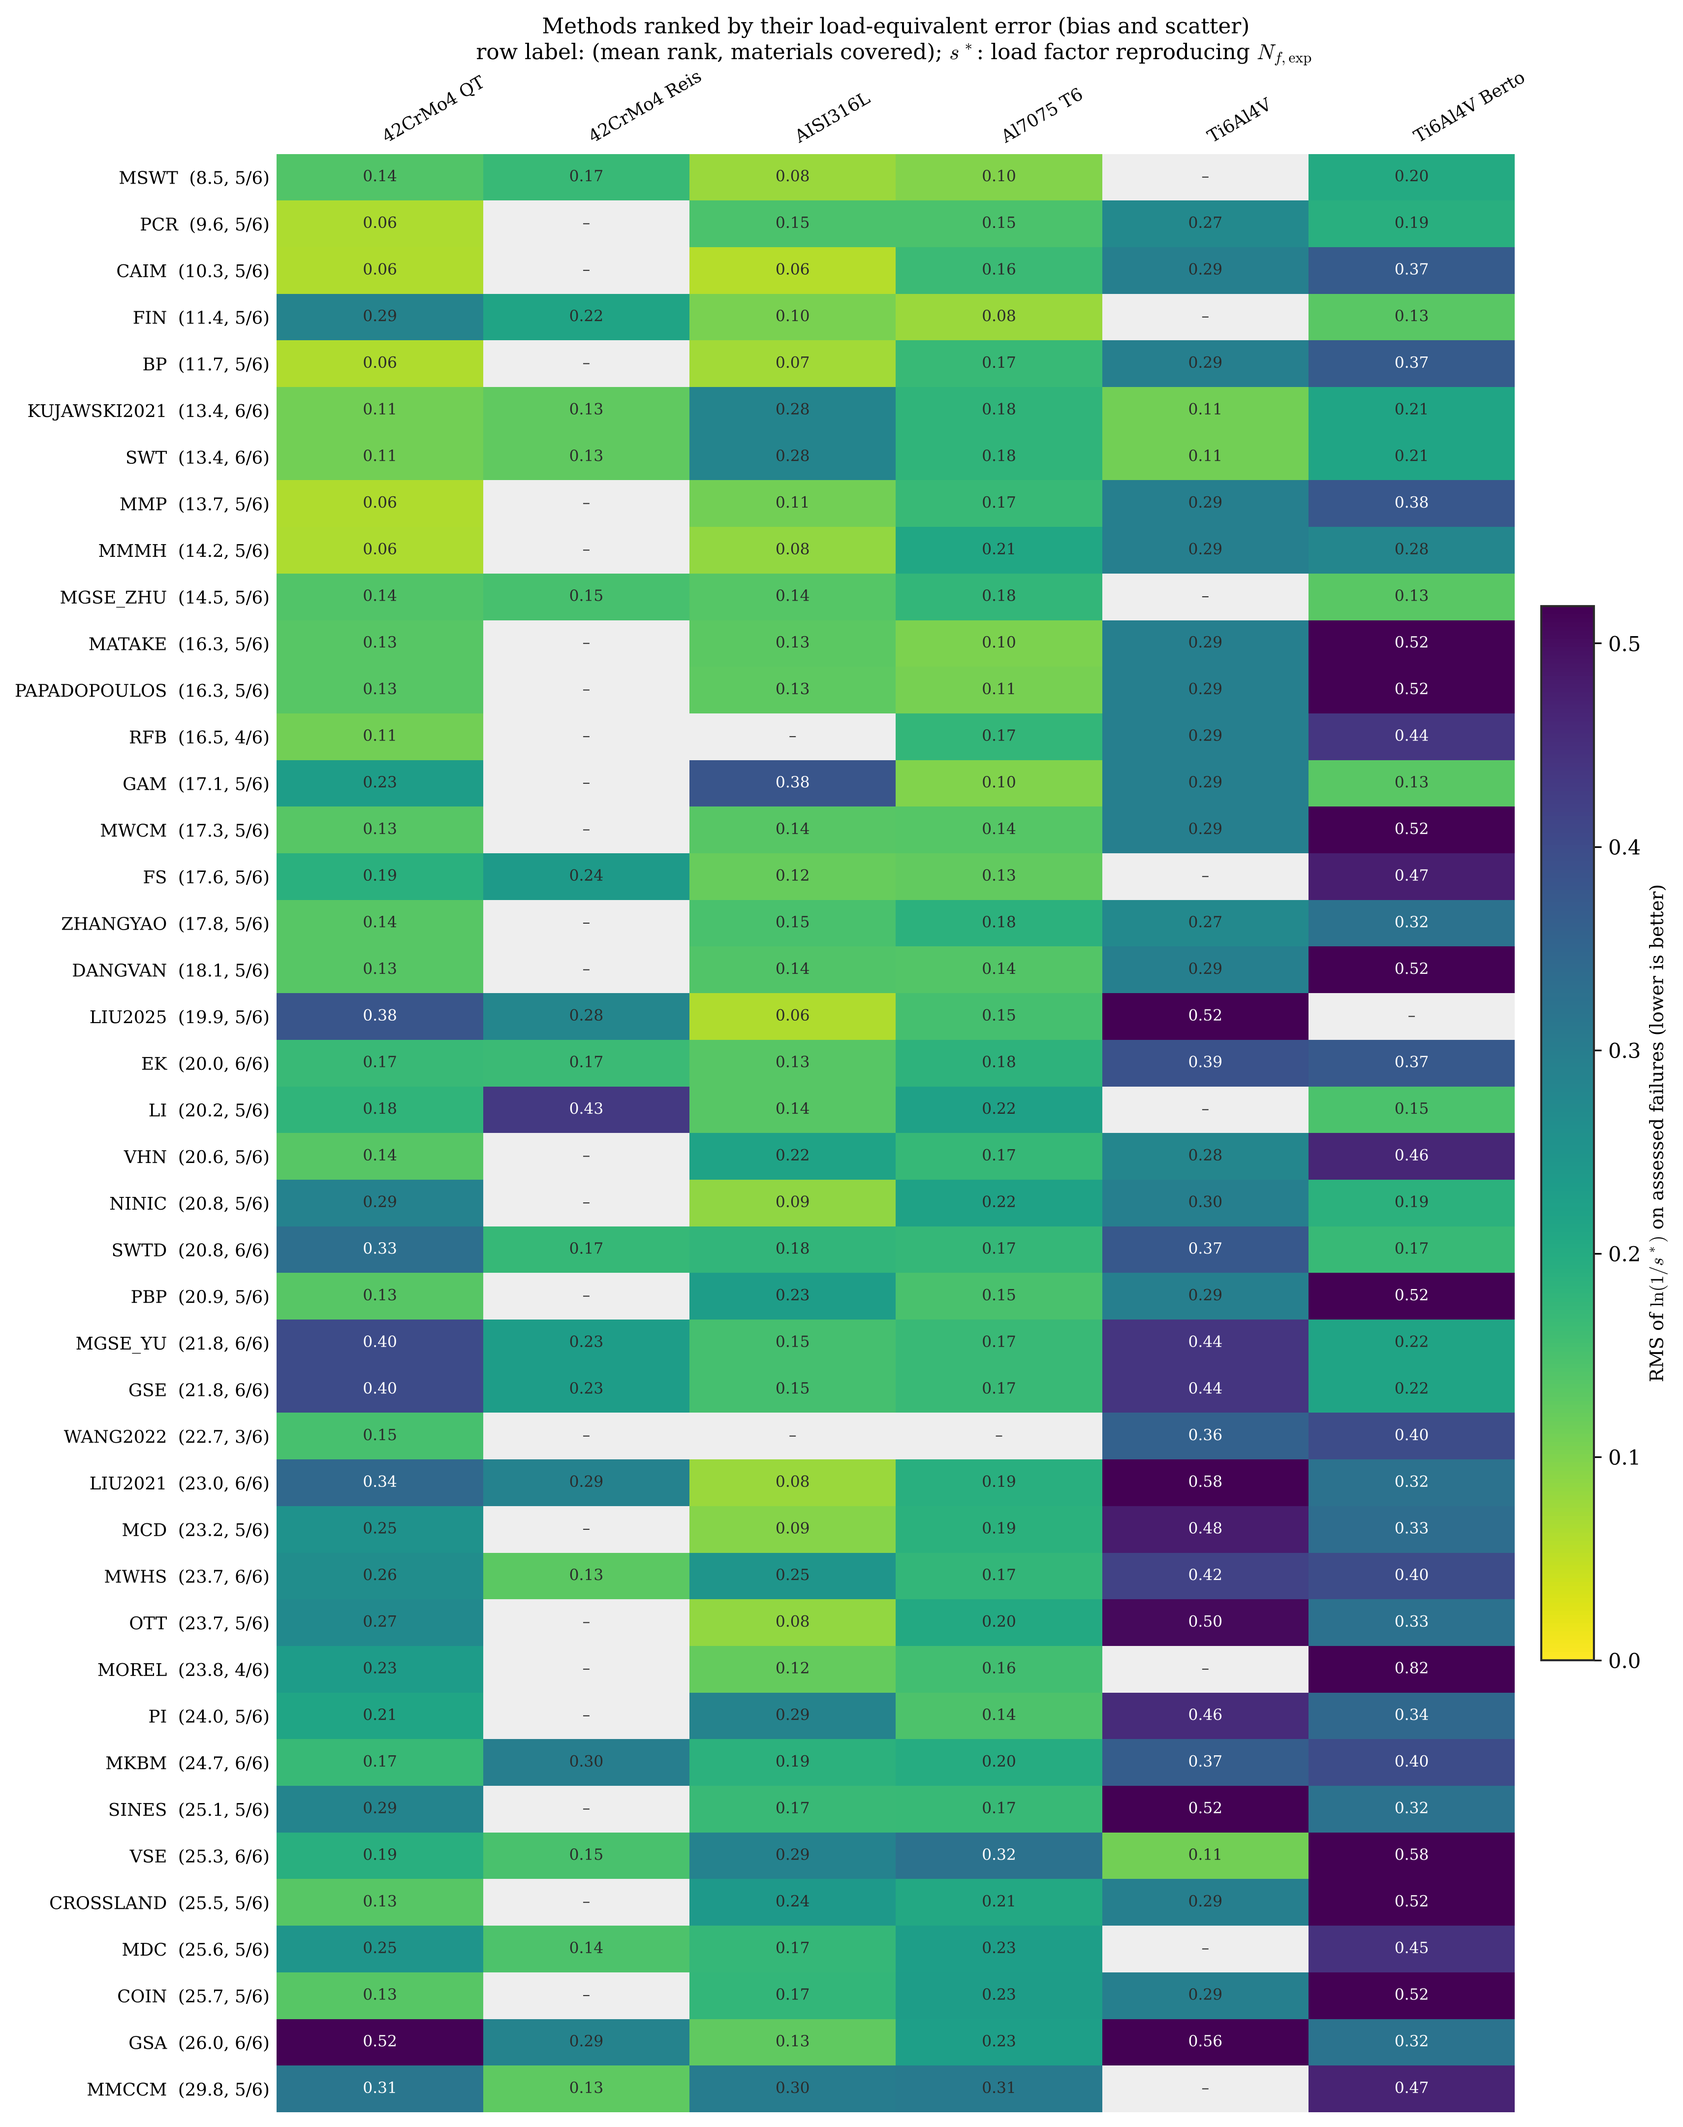
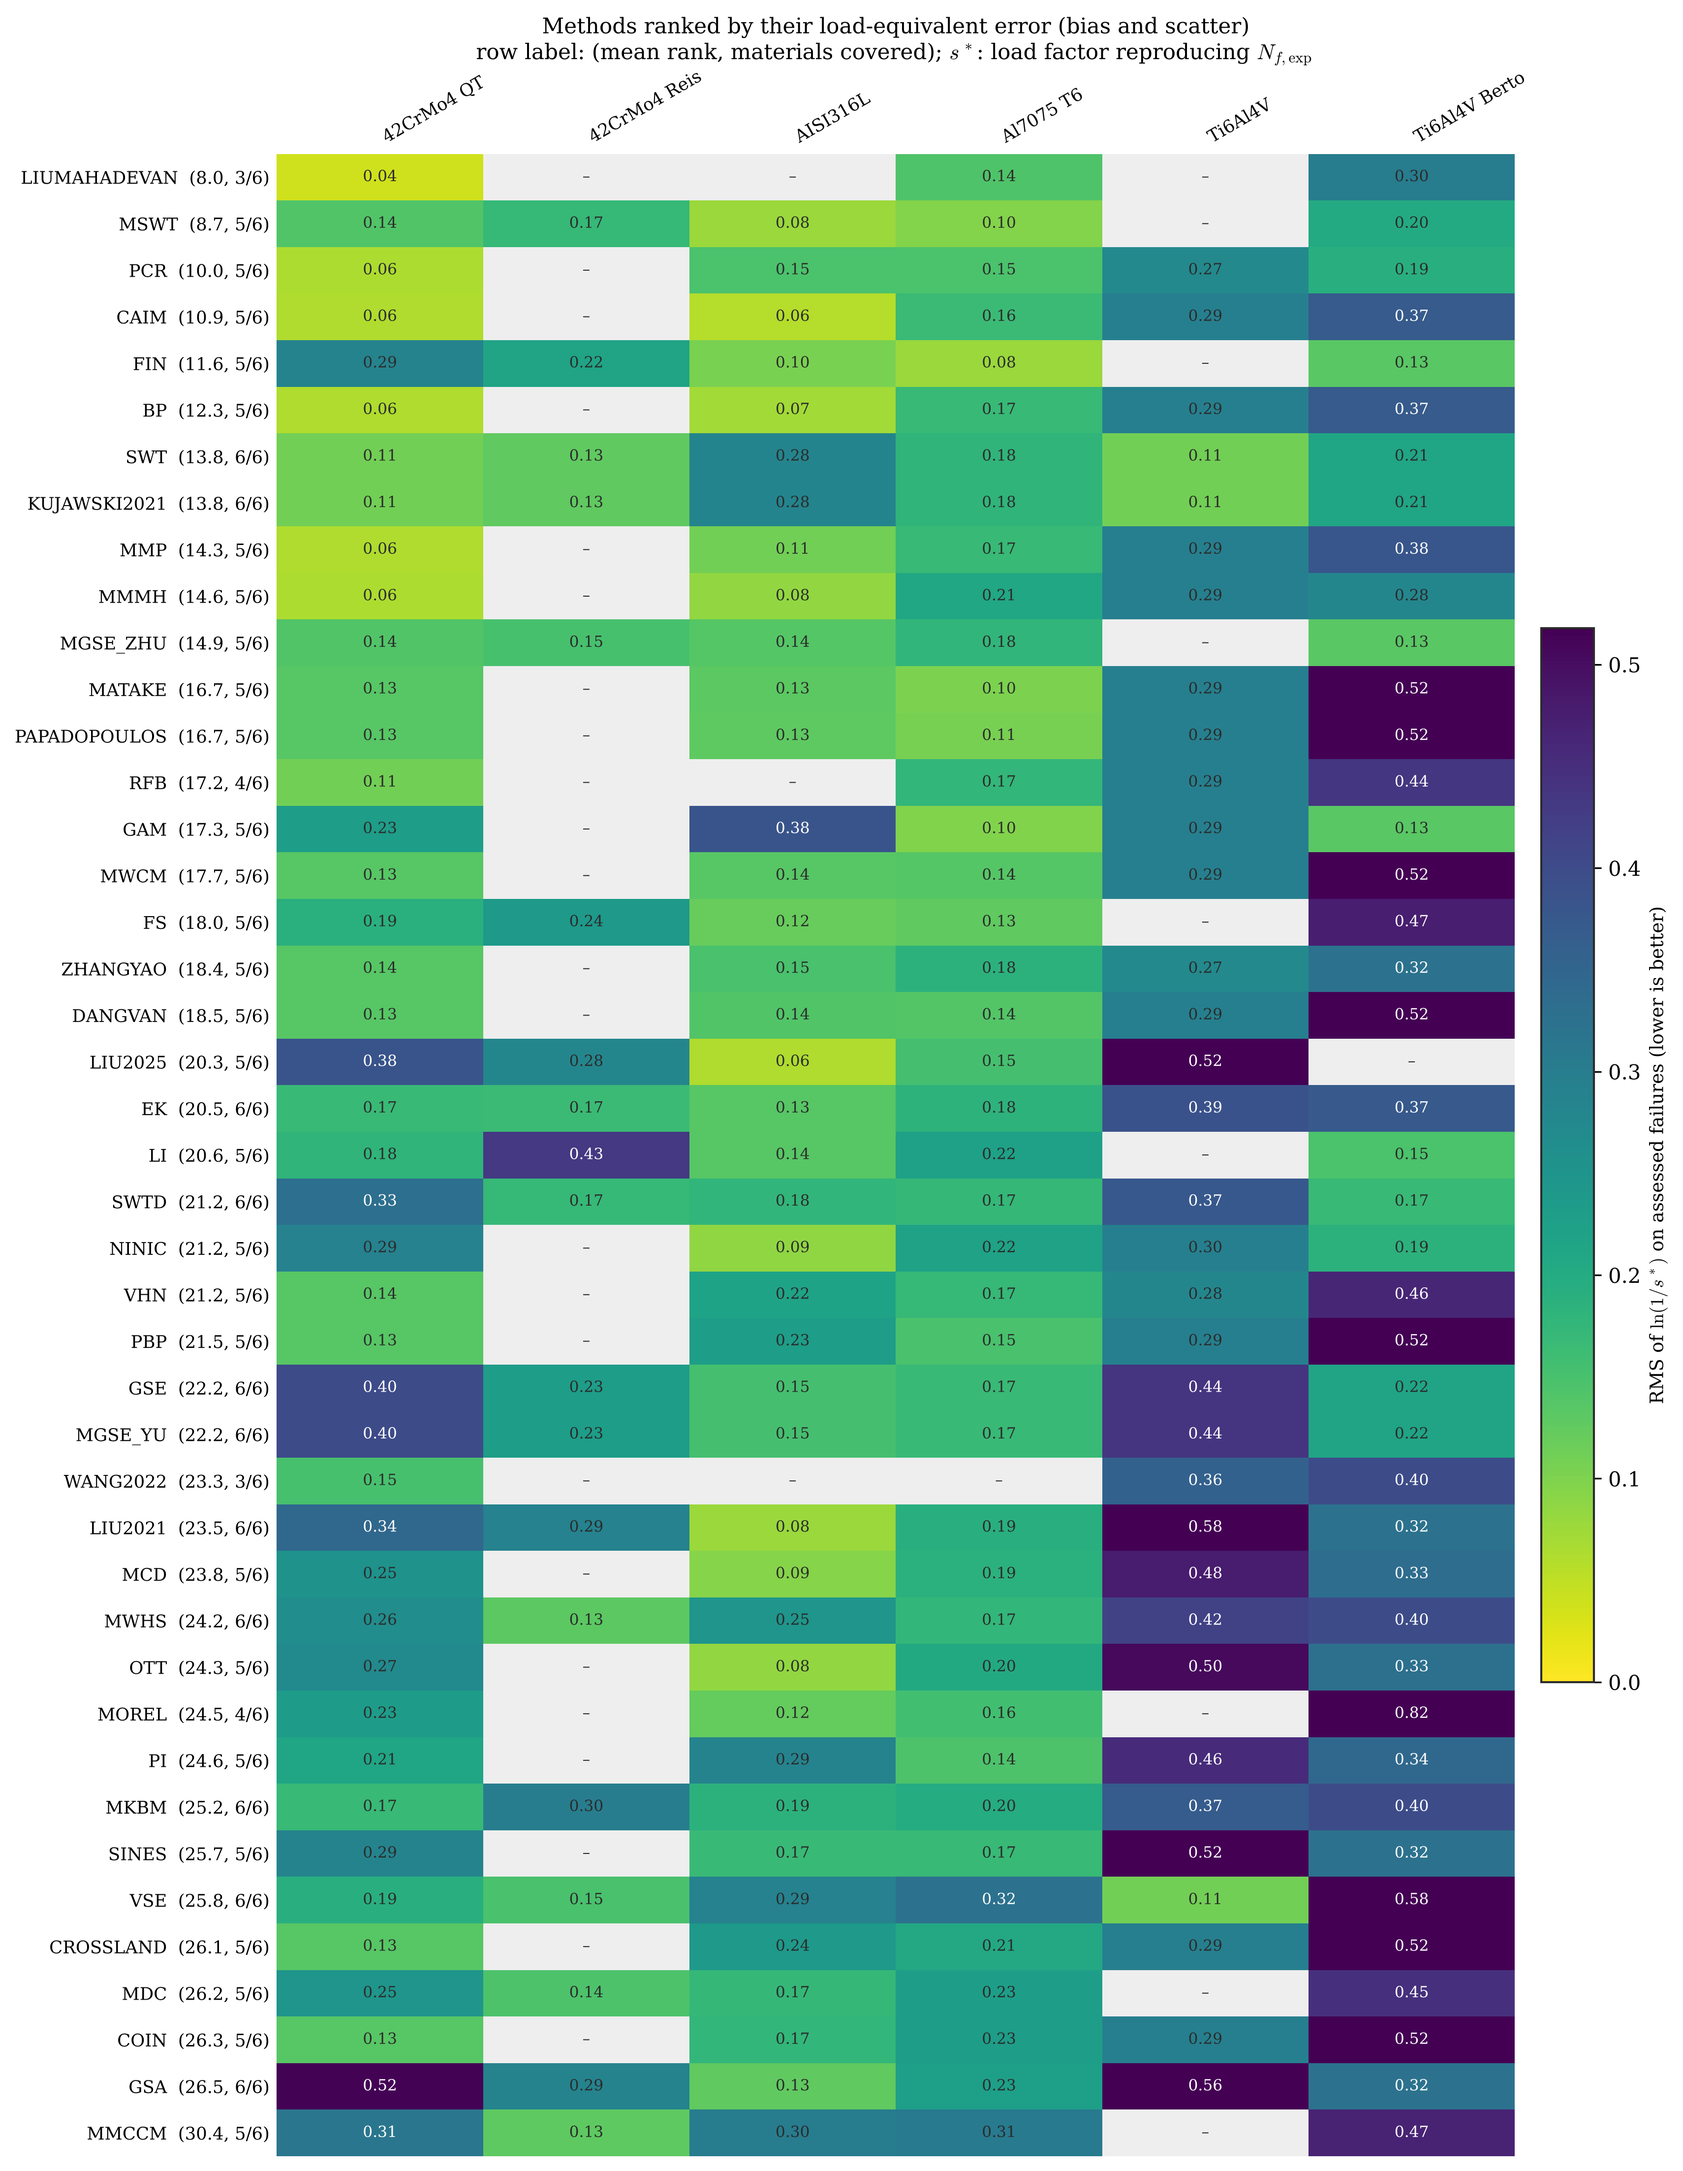
LIUMAHADEVAN: NaN load error outside scope, homepage figures
native_life_load_error returns NaN when a trial load raises LoadingScopeError (the model's life
leaves its declared validity), instead of failing the whole model; the master-curve search
already treats it as out of range. Only models raising LoadingScopeError in evaluate_case are
affected (none of the existing native-life models). Homepage figures refreshed with LIUMAHADEVAN.

Claude-Session: https://claude.ai/code/session_01KzHgFiC4WA789boM7p2Bhj

diff --git a/tests/test_load_error.py b/tests/test_load_error.py
@@ -96,6 +96,28 @@ def test_native_life_load_error_reaches_the_observed_life():
     )
 
 
+def test_native_life_load_error_is_nan_when_a_trial_load_leaves_the_scope():
+    """A LoadingScopeError at a trial load makes e_L undefined (NaN), not a failed model."""
+    from multifat.models.base import CaseResult
+    from multifat.models.errors import LoadingScopeError
+
+    class ScopedLife:
+        name = "SCOPED"
+
+        def evaluate_case(self, *, S0, E0, S1, E1, params, R_list=None, harmonics=None):
+            amplitude = float(np.max(np.abs(harmonics["S_sin"])))
+            if amplitude > 300.0:
+                raise LoadingScopeError("SCOPED: above 300 MPa")
+            return CaseResult(values={"": amplitude}, aux={})
+
+        def native_life(self, aux, params, fit=None):
+            return (500.0 / aux["dp"]) ** 10
+
+    case = _case(axial=250.0, shear=0.0, mean=(0.0, 0.0, 0.0))
+    assert math.isnan(native_life_load_error(ScopedLife(), {}, case, None, None, 1.0))
+    assert np.isfinite(native_life_load_error(ScopedLife(), {}, case, None, None, 2.0**10))
+
+
 def test_pipeline_exports_the_load_error(tmp_path):
     from multifat.cli.pipeline import run_workbook
     from workbook_factory import write_workbook

diff --git a/src/multifat/eval/load_error.py b/src/multifat/eval/load_error.py
@@ -28,6 +28,8 @@ import math
 
 import numpy as np
 
+from multifat.models.errors import LoadingScopeError
+
 from multifat.eval.endurance import load_factor, scaled_case, scaled_damage
 
 HOMOGENEITY_TOL = 1e-9
@@ -85,9 +87,21 @@ def master_curve_load_error(
 def native_life_load_error(
     model, params: dict, case: dict, R_list, fit, Nf: float, *, variant: str = ""
 ):
-    """e_L for a native life law: N_native(s* x) = N_exp, by bisection in ln s."""
+    """e_L for a native life law: N_native(s* x) = N_exp, by bisection in ln s.
+
+    NaN when undefined, including when a trial load leaves the model's declared scope
+    (LoadingScopeError): the native life is then not available at that load.
+    """
     if not (np.isfinite(Nf) and Nf > 0):
         return float("nan")
+    try:
+        return _native_life_load_error(model, params, case, R_list, fit, Nf, variant)
+    except LoadingScopeError:
+        return float("nan")
+
+
+def _native_life_load_error(model, params, case, R_list, fit, Nf, variant):
+    """Bracketing and bisection of ``native_life_load_error``."""
 
     def log_life(x: float) -> float:
         scaled = scaled_case(case, math.exp(x))

diff --git a/CHANGELOG.md b/CHANGELOG.md
@@ -107,6 +107,9 @@ of names and records one distinction FatPy makes; no multifat name was renamed.
   - Finding: Eq. (18) as printed makes a tensile mean stress beneficial. By maintainer decision,
     loading with a mean normal stress on the critical plane is out of scope.
   - Guide: `docs/method-guides/WANG2022.md`.
+- The native-life load error (`Error_load`) is NaN, instead of a failed model, when a trial load
+  leaves the model's declared scope (`LoadingScopeError`), as the master-curve search already
+  does.
 - New criterion `LIUMAHADEVAN`, Liu & Mahadevan (2005), catalogue N16 (issue #13).
   - Formulation: normal, shear and hydrostatic amplitudes on the plane at a material angle from
     the maximum normal stress amplitude plane, with a normal mean-stress factor. Its native life

diff --git a/docs/method-guides/LIUMAHADEVAN.md b/docs/method-guides/LIUMAHADEVAN.md
@@ -191,7 +191,10 @@ Limitations:
 - partial reproduction of the published comparison;
 - 3D plane rule, shear amplitude and S–N form are repository choices;
 - $t_{-1}/f_{-1} \ge 0.5$;
-- slow load-error search (the life is re-solved at each trial load).
+- slow load-error search (the life is re-solved at each trial load);
+- a load error is undefined (NaN) when a trial load moves the life where $t_N/f_N < 0.5$: on
+  Ti6Al4V_Berto (torsion slope $-0.035$ against $-0.11$ in tension) this happens for 17 of the 31
+  assessed failures.
 
 ## References
 
